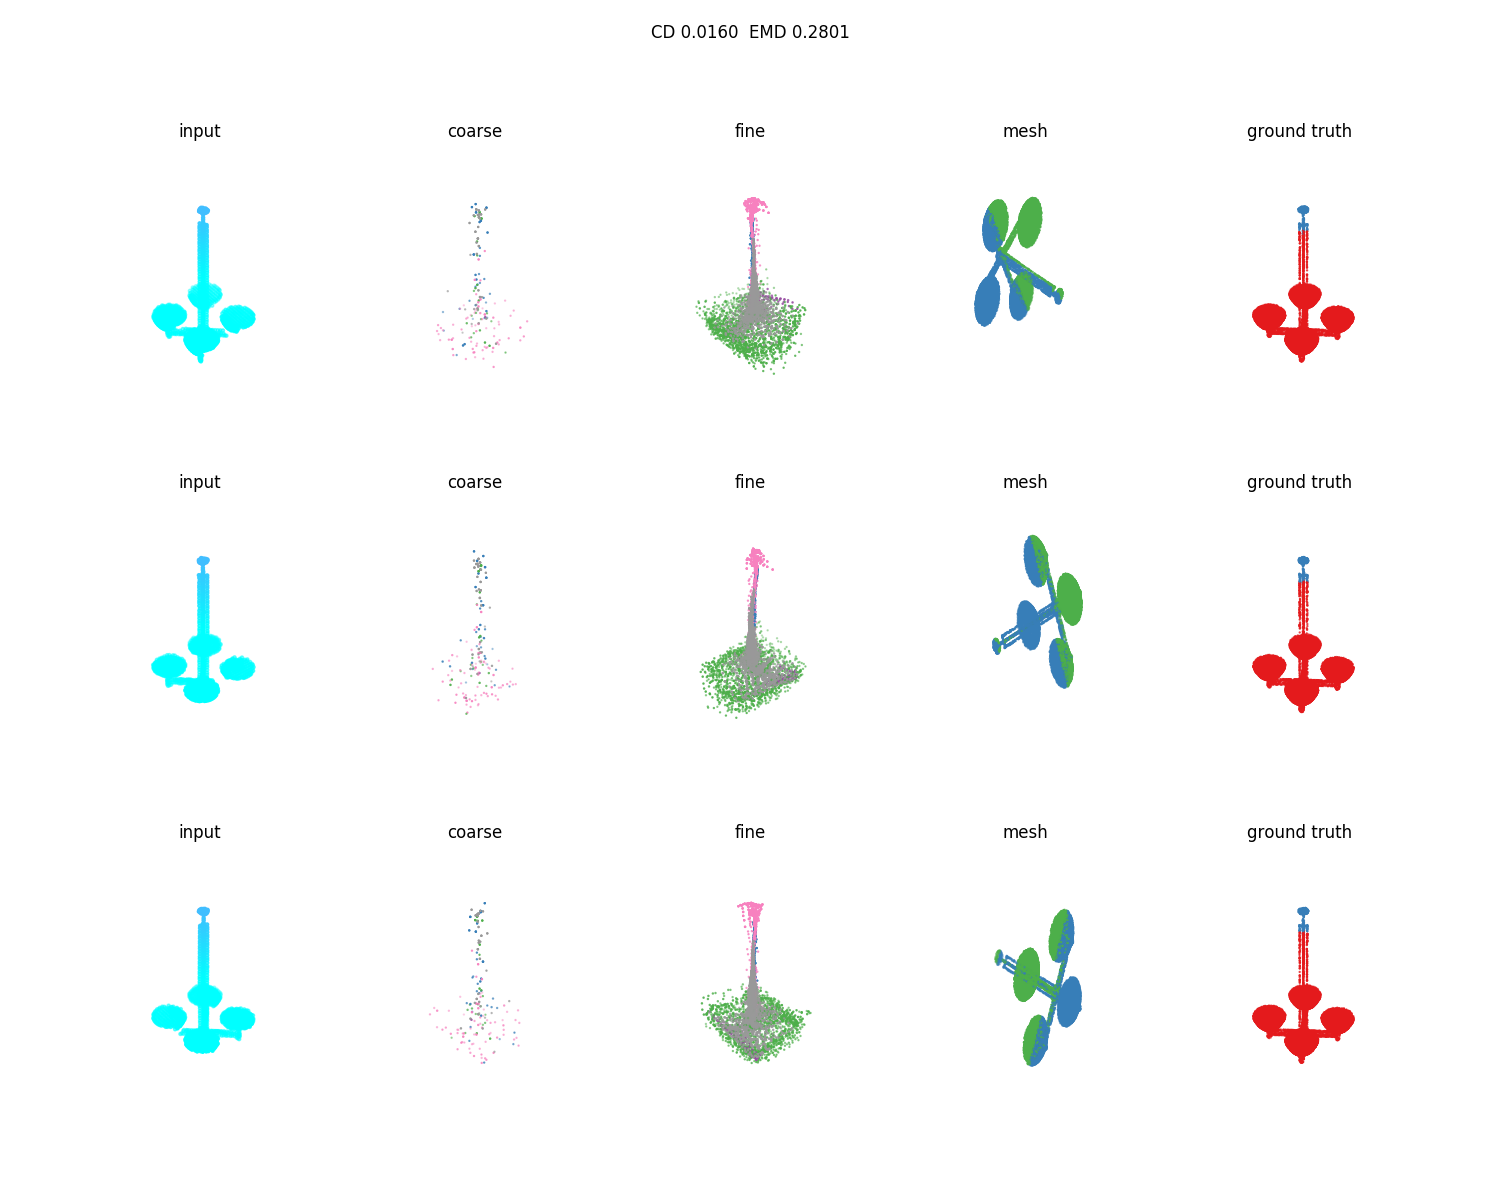
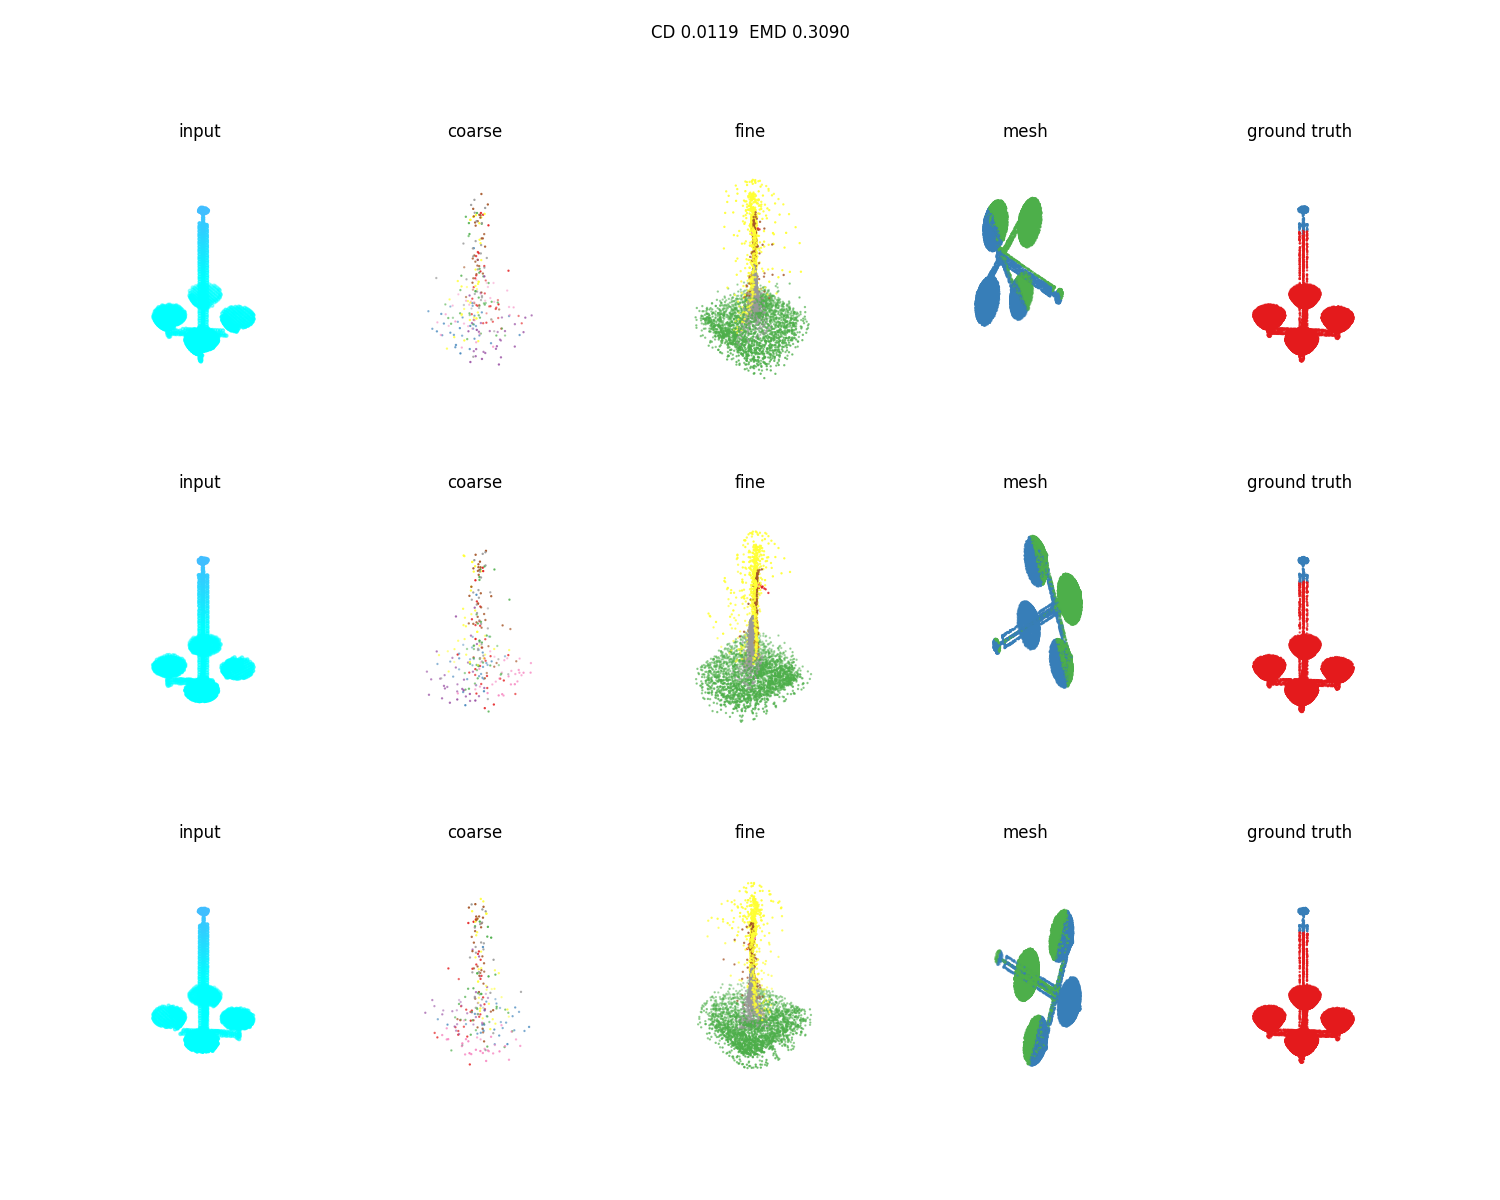
add plots

diff --git a/models/pcn_reg.py b/models/pcn_reg.py
@@ -128,11 +128,11 @@ class Model:
         p_can_feat = tf.nn.softmax(self.canonical[:,:,3:3+self.channels], -1)
         p_coar_samp = tf.reduce_mean(p_coar_feat, [1])
         # p_fine_samp = tf.reduce_mean(p_fine_feat, [1])
-        # entropy = tf.nn.relu(tf.log(self.channels*1.0) + tf.reduce_mean(tf.reduce_sum(p_coar_samp * tf.log(p_coar_samp), [1]), [0]))
+        entropy = tf.nn.relu(tf.log(self.channels*1.0) + tf.reduce_mean(tf.reduce_sum(p_coar_samp * tf.log(p_coar_samp), [1]), [0]))
         # entropy += tf.nn.relu(tf.log(self.channels*1.0) + tf.reduce_mean(tf.reduce_sum(p_fine_samp * tf.log(p_fine_samp), [1]), [0]))
-        entropy = tf.reduce_mean(tf.nn.softmax_cross_entropy_with_logits(labels=p_can_feat, logits=p_coar_feat))
+        entropy += tf.reduce_mean(tf.nn.softmax_cross_entropy_with_logits(labels=p_can_feat, logits=p_coar_feat))
         loss_coarse = chamfer(coarse[:,:,0:3], gt[:,:,0:3])
-        # loss_coarse += chamfer(self.canonical[:,:,0:3], self.gt_can[:,:,0:3])
+        loss_coarse += chamfer(self.canonical[:,:,0:3], self.gt_can[:,:,0:3])
         """
         _, retb, _, retd = tf_nndistance.nn_distance(coarse[:,:,0:3], gt[:,:,0:3])
         for i in range(np.shape(gt)[0]):
@@ -162,7 +162,7 @@ class Model:
         add_train_summary('train/fine_loss', loss_fine)
         update_fine = add_valid_summary('valid/fine_loss', loss_fine)
 
-        loss = alpha * loss_coarse + loss_fine # + entropy
+        loss = alpha * loss_coarse + loss_fine + entropy
         add_train_summary('train/loss', loss)
         update_loss = add_valid_summary('valid/loss', loss)
 
